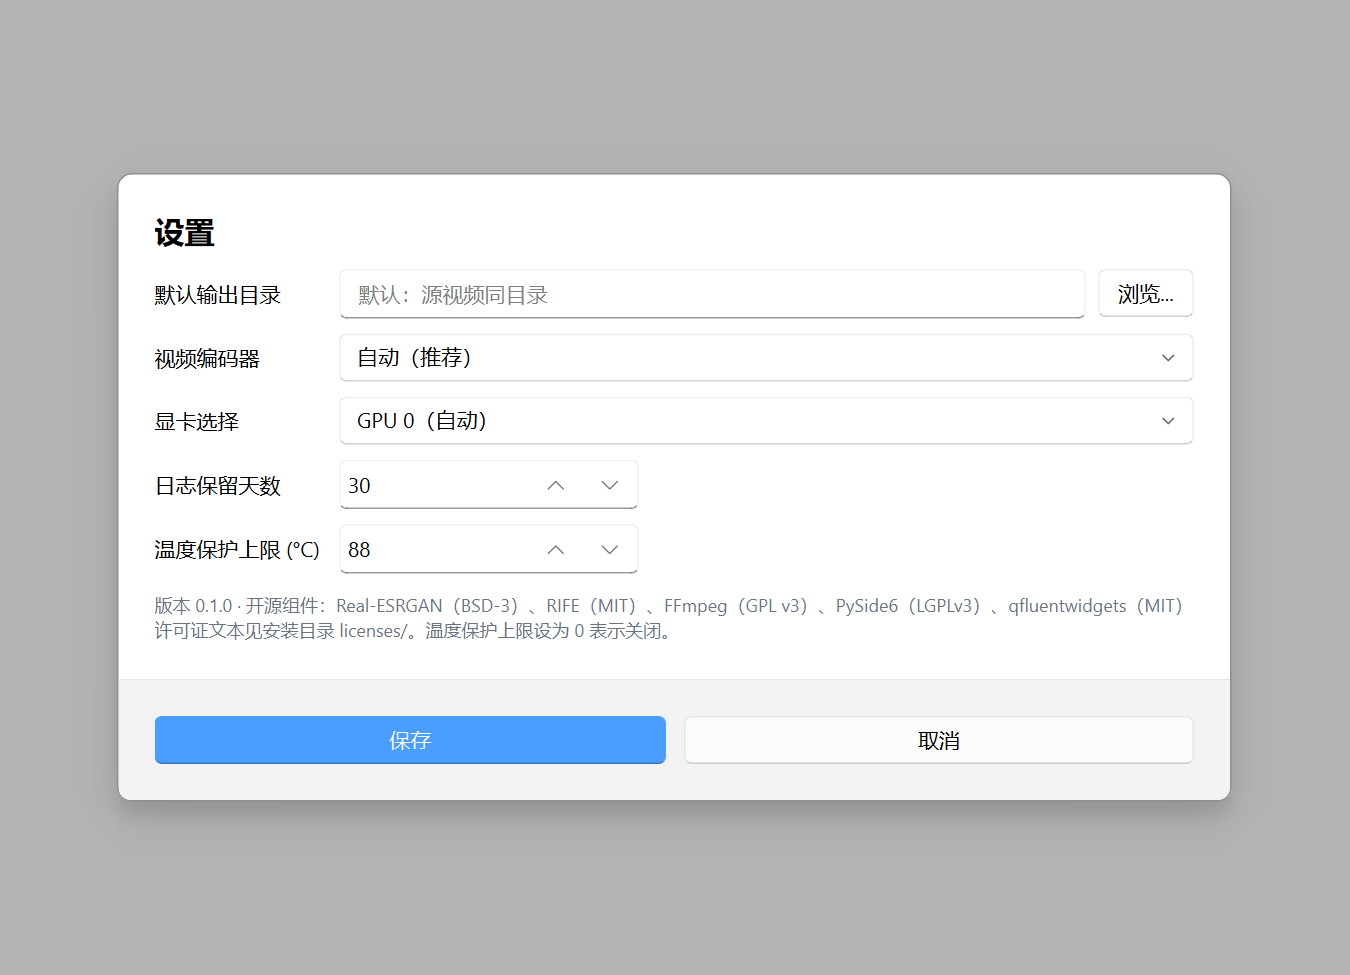
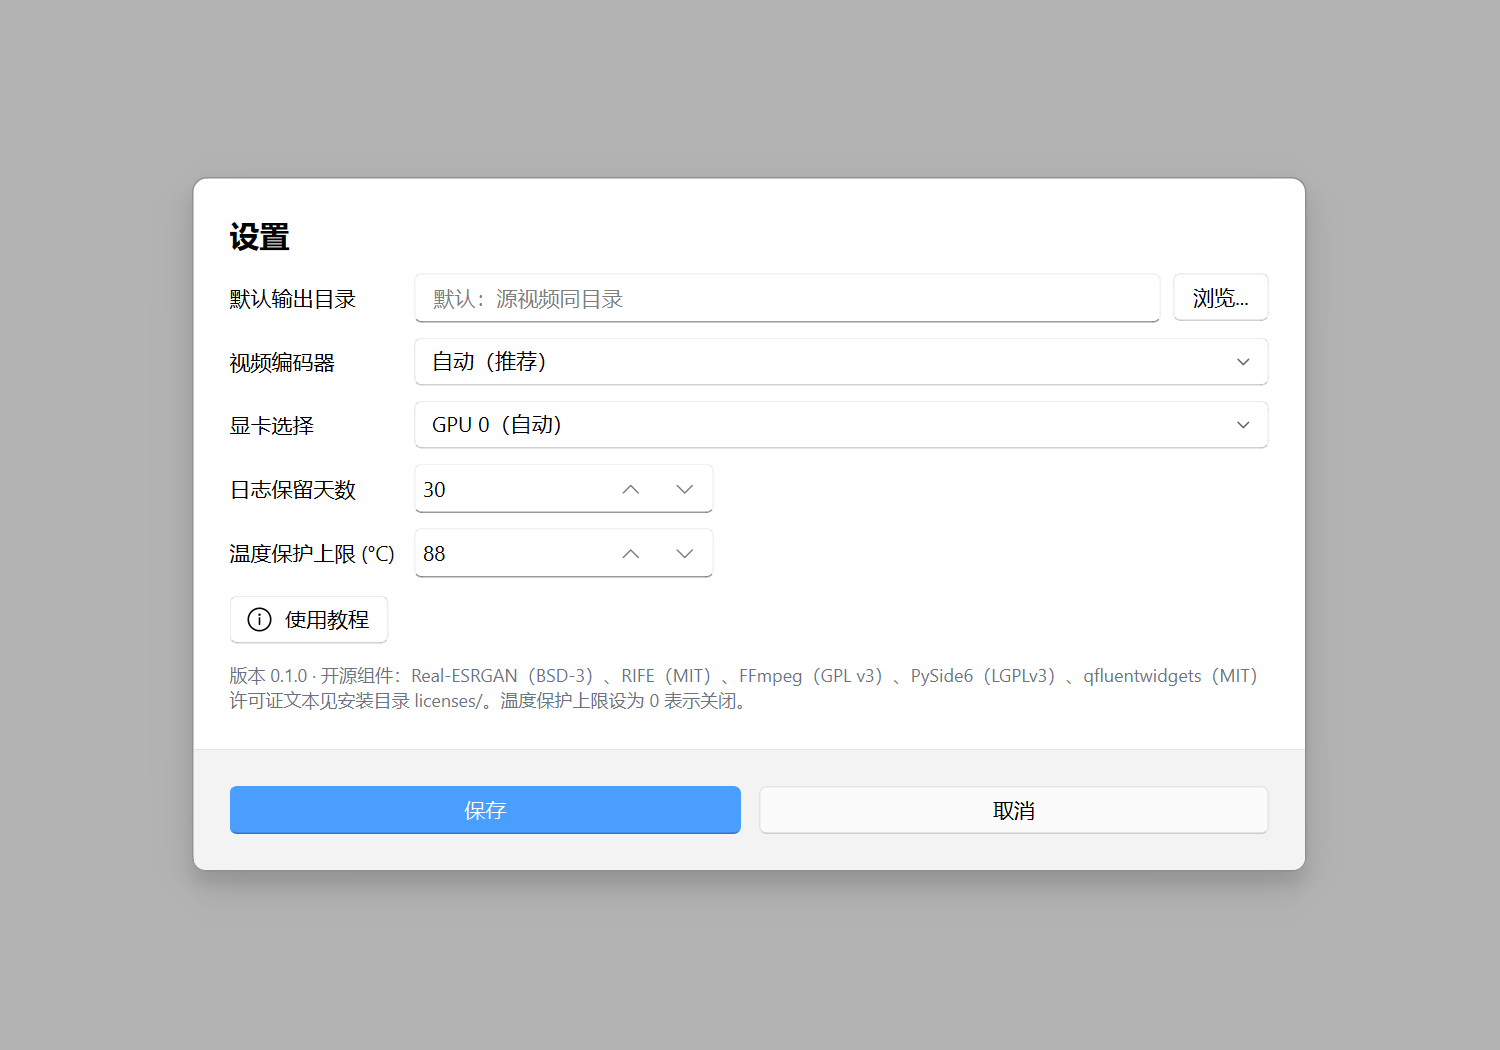
feat: 设置界面增加内置使用教程（S5）

diff --git a/nex/ui/tutorial.py b/nex/ui/tutorial.py
@@ -1,0 +1,98 @@
+"""内置使用教程对话框。"""
+
+from __future__ import annotations
+
+from PySide6.QtGui import QColor, QFont, QTextCursor
+from qfluentwidgets import MessageBoxBase, SubtitleLabel, TextEdit
+
+TUTORIAL_MARKDOWN = """
+# NEX 视频增强 · 使用教程
+
+## 1. 快速上手
+
+1. 点击右上角「添加任务」
+2. 选择要处理的视频（可多选，也可以直接把视频拖进窗口）
+3. 按需设置超分、补帧和输出位置
+4. 点击「添加」；勾选「添加后立即开始」会自动处理
+5. 处理完成后，在原视频所在目录找到文件名带 `_NEX` 的新视频
+
+> 建议先用 10~30 秒的短视频测试参数，满意后再处理长视频。
+
+## 2. AI 超分（画面更清晰、更大）
+
+- 动漫视频：选择「动漫视频（推荐）」
+- 真人视频：选择「写实通用」
+- 动漫插画/图片风：选择「动漫插画」
+- 分辨率：
+  - `2x / 3x / 4x`：按倍数放大
+  - `1080p / 2K / 4K`：按目标清晰度输出
+- 超分比较耗时，4K 输出更慢，请耐心等待
+
+## 3. AI 补帧（画面更流畅）
+
+- 推荐模型：`rife-v4.6`
+- `2x / 4x`：帧率翻倍 / 四倍
+- `60 / 120`：直接指定目标帧率（例如 24fps 视频选 60，会自动插值到 60fps）
+- 动漫视频也可以选择 `rife-anime`
+
+## 4. 任务队列
+
+- 任务会按顺序逐个处理（显卡一次只做一件事，更稳定）
+- 等待中：可以取消
+- 处理中：可以取消；取消后可以重试
+- 失败 / 已取消：可以重试或删除记录
+- 删除只删除记录，不会删除视频文件
+- 关闭软件再打开，任务记录会保留；处理中的任务会恢复为等待中
+
+## 5. 日志与设置
+
+- 底部日志面板显示当前选中任务的详细进度
+- 设置中可以修改：默认输出目录、编码器、显卡、日志保留天数、温度保护上限
+- 温度保护：处理中每 5 秒检查一次显卡温度，超过上限（默认 88°C）会自动安全停止任务
+- 温度保护上限设为 0 表示关闭
+
+## 6. 常见问题
+
+- **处理很慢？** AI 处理比普通转码慢很多，属于正常现象，4K 更慢
+- **提示显存不足？** 降低分辨率/超分倍数，或先只做补帧再试
+- **输出在哪里？** 默认在原视频同目录，文件名带 `_NEX`
+- **支持哪些格式？** mp4 / mkv / mov / avi / webm 等常见格式
+- **处理时可以关闭软件吗？** 建议先取消任务再关闭；直接关闭会停止当前任务
+- **会损伤显卡吗？** AI 计算属于正常负载，不超频、不改电压；软件还有温度保护
+- **没有声音？** 软件会尽量复制原音频；请确认原视频本身有音轨
+- **视频编码很慢？** 当前默认使用 x264 软件编码；NVENC 需显卡驱动 610+
+
+## 7. 使用建议
+
+- 处理长视频时保持电源接通、机身通风良好
+- 重要视频先备份原文件
+- 每完成一批重要修改，可以双击项目目录里的「备份项目.bat」做本地备份
+
+---
+版本 0.1.0 · 如需更详细说明，请查看项目 docs 目录
+"""
+
+
+class TutorialDialog(MessageBoxBase):
+    def __init__(self, parent=None):
+        super().__init__(parent)
+        self.titleLabel = SubtitleLabel("使用教程", self)
+        self.viewLayout.addWidget(self.titleLabel)
+
+        self.textEdit = TextEdit(self)
+        self.textEdit.setReadOnly(True)
+        self.textEdit.setFont(QFont("Microsoft YaHei UI", 10))
+        self.textEdit.setMarkdown(TUTORIAL_MARKDOWN)
+        self.textEdit.selectAll()
+        self.textEdit.setTextColor(QColor("#1F2329"))
+        self.textEdit.moveCursor(QTextCursor.Start)
+        self.textEdit.setMinimumSize(720, 500)
+        self.textEdit.setStyleSheet(
+            "QTextEdit { background: #FFFFFF; color: #1F2329;"
+            " border: 1px solid #E5EAF2; border-radius: 8px; padding: 8px; }"
+        )
+        self.viewLayout.addWidget(self.textEdit)
+
+        self.yesButton.setText("知道了")
+        self.hideCancelButton()
+        self.widget.setMinimumSize(780, 620)

diff --git a/nex/ui/settings_dialog.py b/nex/ui/settings_dialog.py
@@ -7,6 +7,7 @@ from qfluentwidgets import (
     BodyLabel,
     CaptionLabel,
     ComboBox,
+    FluentIcon as FIF,
     LineEdit,
     MessageBoxBase,
     PushButton,
@@ -15,6 +16,7 @@ from qfluentwidgets import (
 
 from .. import APP_VERSION
 from ..app_config import AppConfig
+from .tutorial import TutorialDialog
 from .widgets import make_spin_box
 
 ENCODERS = ["auto", "x264", "nvenc"]
@@ -76,6 +78,17 @@ class SettingsDialog(MessageBoxBase):
 
         self.viewLayout.addWidget(form_host)
 
+        tutorial_row = QWidget(self)
+        tutorial_layout = QHBoxLayout(tutorial_row)
+        tutorial_layout.setContentsMargins(0, 0, 0, 0)
+        self.tutorialBtn = PushButton(tutorial_row)
+        self.tutorialBtn.setText("使用教程")
+        self.tutorialBtn.setIcon(FIF.INFO)
+        self.tutorialBtn.clicked.connect(self._show_tutorial)
+        tutorial_layout.addWidget(self.tutorialBtn)
+        tutorial_layout.addStretch(1)
+        self.viewLayout.addWidget(tutorial_row)
+
         about = CaptionLabel(
             f"版本 {APP_VERSION} · 开源组件：Real-ESRGAN（BSD-3）、RIFE（MIT）、"
             "FFmpeg（GPL v3）、PySide6（LGPLv3）、qfluentwidgets（MIT）\n"
@@ -93,6 +106,9 @@ class SettingsDialog(MessageBoxBase):
         path = QFileDialog.getExistingDirectory(self, "选择默认输出文件夹")
         if path:
             self.outEdit.setText(path)
+
+    def _show_tutorial(self) -> None:
+        TutorialDialog(self).exec()
 
     def accept(self) -> None:
         self.config.output_dir = self.outEdit.text().strip()

diff --git a/tests/test_tutorial.py b/tests/test_tutorial.py
@@ -1,0 +1,21 @@
+"""内置教程内容完整性测试。"""
+
+from nex.ui.tutorial import TUTORIAL_MARKDOWN
+
+
+def test_tutorial_has_key_sections():
+    for title in (
+        "快速上手",
+        "AI 超分",
+        "AI 补帧",
+        "任务队列",
+        "日志与设置",
+        "常见问题",
+    ):
+        assert title in TUTORIAL_MARKDOWN
+
+
+def test_tutorial_mentions_safety_and_output():
+    assert "温度保护" in TUTORIAL_MARKDOWN
+    assert "_NEX" in TUTORIAL_MARKDOWN
+    assert "显卡" in TUTORIAL_MARKDOWN

diff --git a/devlog/2026-11-21.md b/devlog/2026-11-21.md
@@ -16,6 +16,7 @@
   - 日志面板与引擎原始输出分离（引擎输出写入 `<id>.engine.log`），主日志仅保留结构化信息（单任务约 11 行）。
   - 实现日志保留天数清理；新增日志清理测试。
   - 真实界面端到端：单任务完成、取消（保留 13%）、两个任务顺序队列、取消后重试全部通过；20 项测试通过；截图 `docs/assets/ui-s5.png`。
+  - 按用户要求新增设置界面「使用教程」按钮与内置 Markdown 图文教程（可滚动、只读）；修复富文本继承白色导致不可见的问题（显式设置文字颜色）；截图 `docs/assets/settings-s5.png`、`docs/assets/tutorial-s5.png`。
 - **S4 队列、持久化与日志（已完成，待用户确认）**：
   - 新增 `task.py`（任务模型）、`db.py`（SQLite + WAL）、`worker.py`（QThread 顺序消费、进度/日志信号、取消）；界面表格改为真实任务模型，日志面板读取任务日志文件。
   - 实测：工作线程完成真实任务（进度 100、输出与日志存在）；取消保留进度（12%）；强杀进程后数据库从"处理中 45%"恢复为"等待中 0%"；遗留临时目录可清理；截图 `docs/assets/ui-s4.png`。

diff --git a/docs/05-开发执行步骤.md b/docs/05-开发执行步骤.md
@@ -53,7 +53,7 @@
 
 ## S5 界面与引擎整合
 
-- **产出**：界面"添加任务 → 队列 → 处理 → 完成"全链路跑通；修复设置数字框（日志天数 / 温度上限）显示与输入问题；日志面板与引擎原始输出分离；实现日志保留天数清理。
+- **产出**：界面"添加任务 → 队列 → 处理 → 完成"全链路跑通；修复设置数字框（日志天数 / 温度上限）显示与输入问题；日志面板与引擎原始输出分离；实现日志保留天数清理；设置界面新增「使用教程」按钮与内置图文教程。
 - **验证**：真实界面中完成单任务、取消、多任务顺序队列、失败重试；按 docs/06 冒烟清单核对。
 - **实测结果**：单任务 100% 完成且输出/日志存在；取消保留进度 13%；两个任务顺序完成；取消任务重试后完成；日志面板仅显示结构化日志（约 11 行）；设置数字框可显示、键盘输入与箭头调节。详见 docs/06 第 1.3 节。
 - **停点**：用户试用并给出修改清单；此后冻结新功能，只修问题。

diff --git a/docs/03-界面设计规范.md b/docs/03-界面设计规范.md
@@ -76,7 +76,8 @@
 
 ## 8. 设置对话框
 
-- 常规：默认输出目录、默认编码器（NVENC 推荐 / x264）、GPU 选择、日志保留天数。
+- 常规：默认输出目录、默认编码器（NVENC 推荐 / x264）、GPU 选择、日志保留天数、温度保护上限。
+- 「使用教程」按钮：打开内置教程对话框（Markdown 排版、可滚动、只读）。
 - 关于：版本号、开源组件与许可证列表（可展开）。
 
 ## 9. 交互与提示
@@ -85,7 +86,11 @@
 - 处理中关闭软件：提示有任务正在处理，确认后终止。
 - 错误提示用对话框 + 日志双通道；不把英文堆栈直接抛给用户。
 
-## 10. 当前实现截图（S2）
+## 10. 当前实现截图（S2-S5）
 
-![S2 主界面](assets/ui-s2.png)
+![S5 主界面](assets/ui-s5.png)
+
+![设置界面（含使用教程按钮）](assets/settings-s5.png)
+
+![内置使用教程](assets/tutorial-s5.png)
 

diff --git a/docs/06-测试与验收标准.md b/docs/06-测试与验收标准.md
@@ -55,6 +55,7 @@
 | S5-05 | 日志可读性 | ✅ 主日志仅结构化信息，引擎原始输出独立存放 |
 | S5-06 | 设置数字框显示与输入 | ✅ 数值正常显示、键盘输入与箭头调节有效 |
 | S5-07 | 全部单元 / 集成测试 | ✅ 20 passed |
+| S5-08 | 设置界面「使用教程」按钮 | ✅ 教程对话框正常显示 Markdown 图文并可滚动 |
 
 ## 2. 手工测试清单
 
